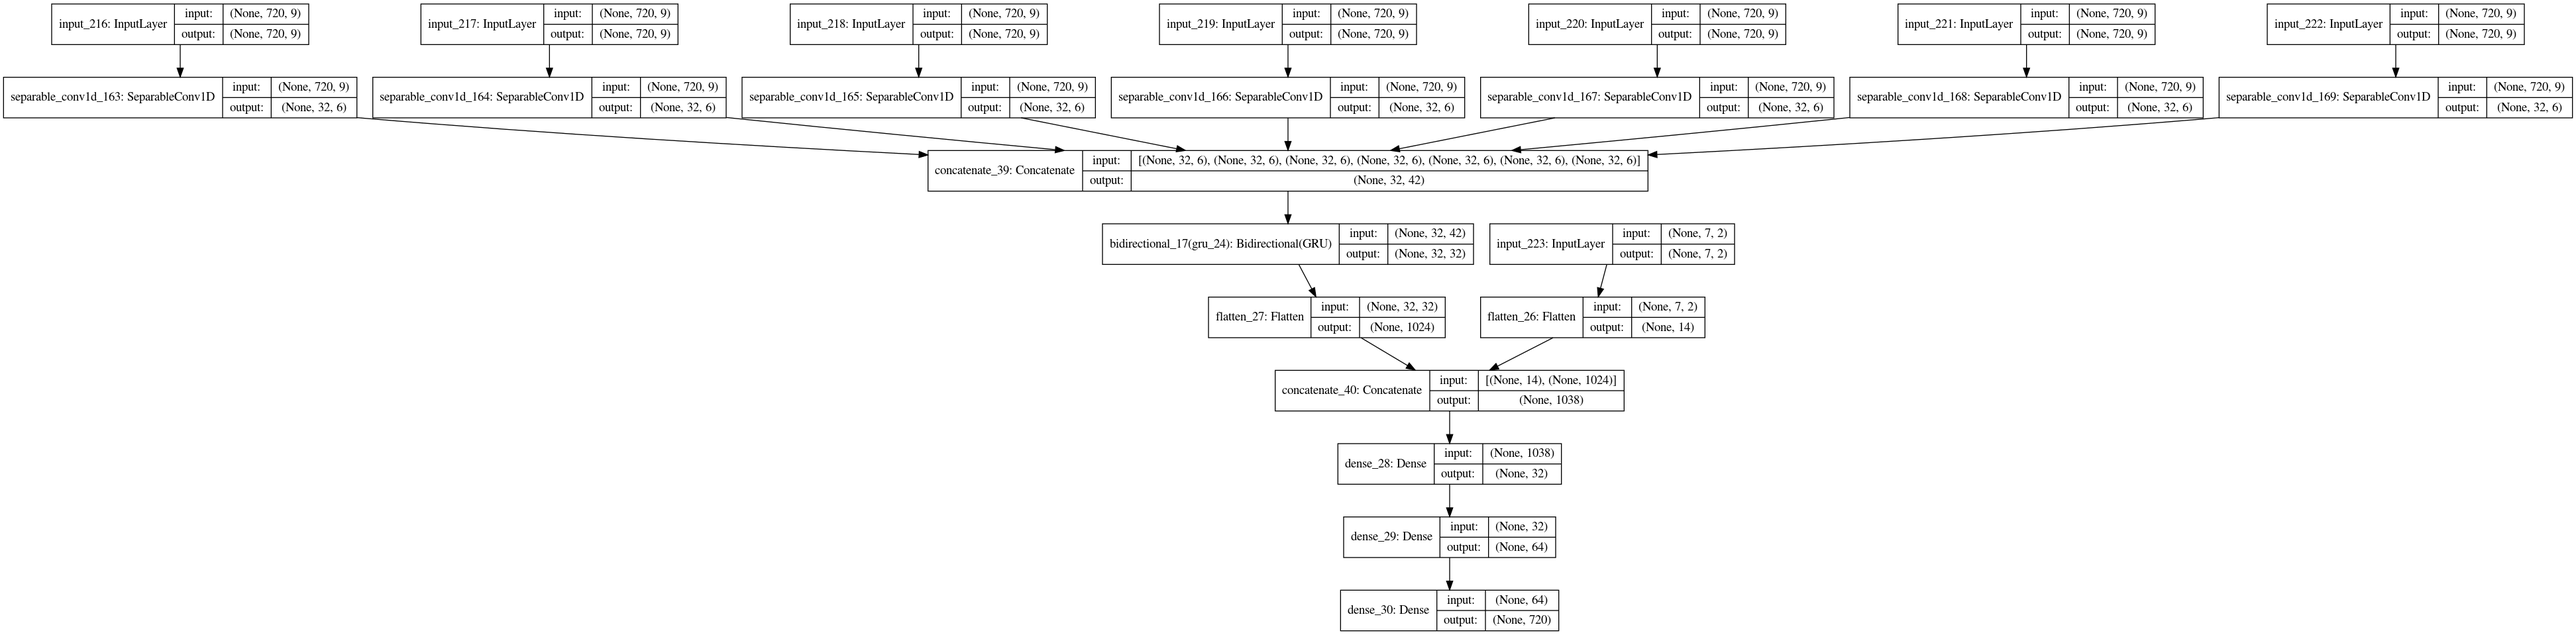
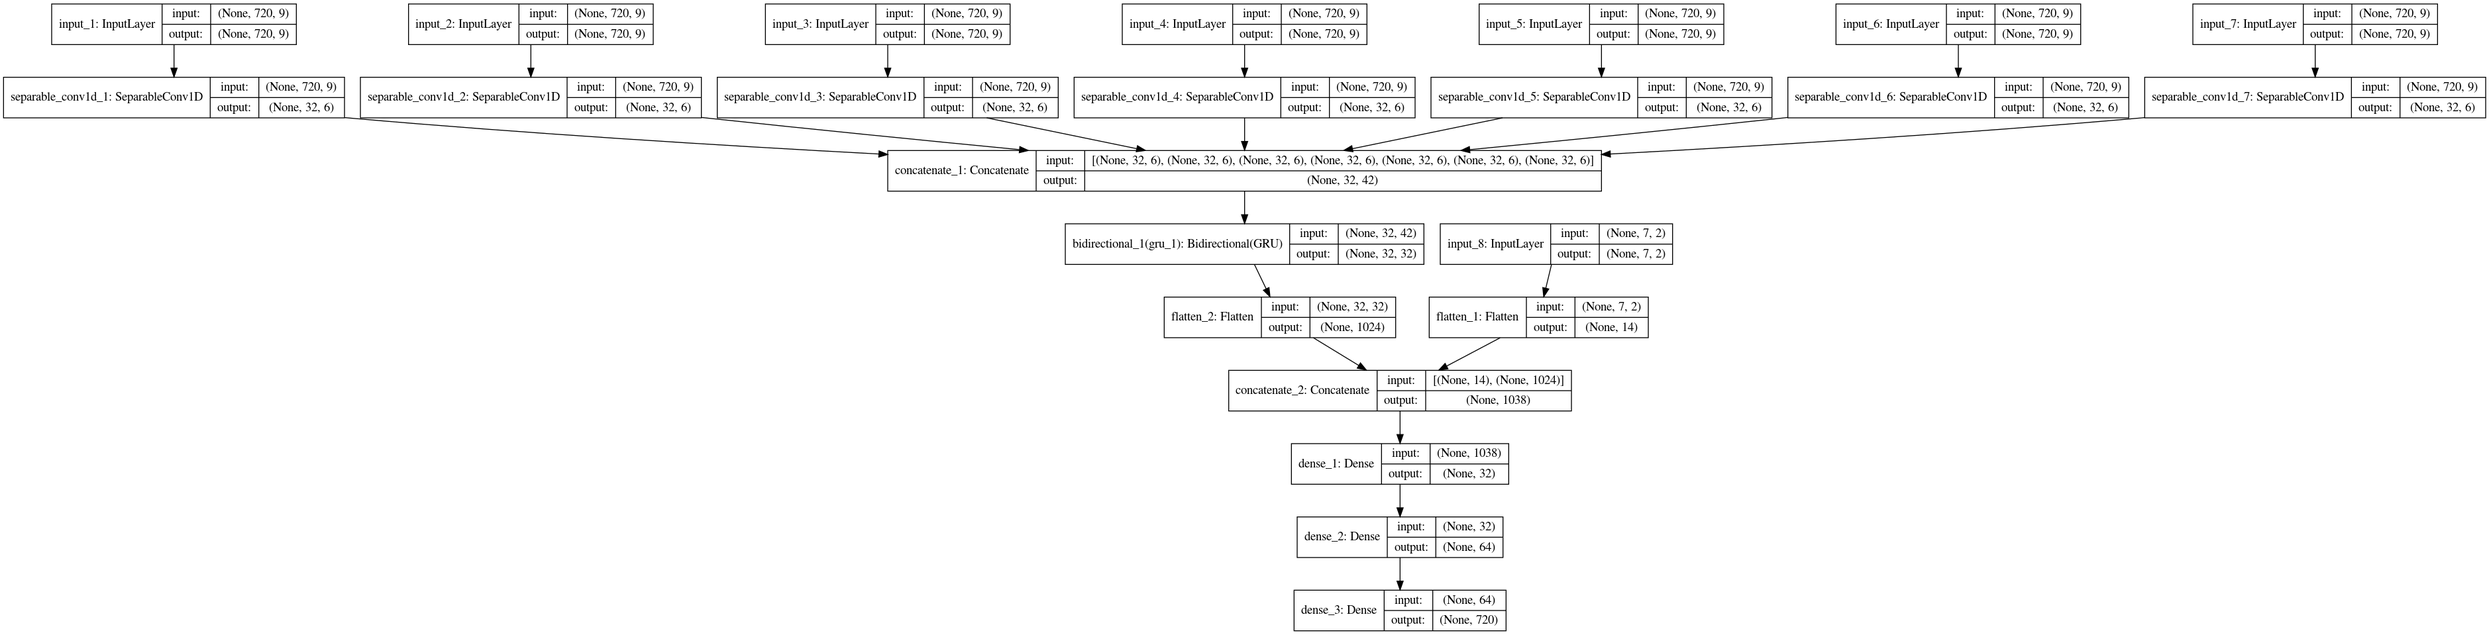
Datastream is now working. Model diagram is produced. Weather data link is updated.

diff --git a/DataAcquisition/dataStream.py b/DataAcquisition/dataStream.py
@@ -13,6 +13,7 @@ from DataAcquisition.ClassSchedule.scripts.classSchedule import classSchedule
 from DataAcquisition.Load.scripts.chillerLoad import chillerLoad
 import numpy as np
 import time
+import pandas as pd
 
 
 #TODO: Get past load data
@@ -59,28 +60,41 @@ class dataStream():
         return np.stack([self.getDaily(date - datetime.timedelta(days=x)) for x in range(7)])
      
     def getMinutelyStream(self, date = datetime.date.today(), offsetDay = 0):
-        return self.getMinutely(date - datetime.timedelta(days=x))
+        return self.getMinutely(date - datetime.timedelta(days=offsetDay))
+
+    def batches(self, iterable, batch_size):
+        for i in range(0, len(iterable), batch_size):
+            yield iterable[i:i + batch_size]
 
     
     def generate(self, dateSet, batch_size = 10):
-        [ for date in dateSet]
-        for date in dateSet:
-            
-            x = [self.getDailyStream(date),self.getMinutelyStream(date)]+self.getMinutelyStream(date, pastWeek=True)
-            y = self.cl.getData(date).iloc[:,0].values
-            yield (x,y)
+        #partition the data into subsets
+        while True:
+            for dateSubSet in self.batches(dateSet,batch_size):
+                #Gather the minutely data by batch and then by relative day.
+                print(dateSubSet)
+                minutely = [np.stack([self.getMinutelyStream(date) for date in dateSubSet]) for offset in range(7)]
+                #Gather stack of daily data
+                daily = [np.stack([self.getDailyStream(date) for date in dateSubSet])]
+                x = daily+minutely
+                y = np.stack([self.cl.getData(date).iloc[:,0].values for date in dateSubSet])
+                yield (x,y)
            
 
 if __name__ == '__main__':
     now = time.time()
-    testDate = datetime.date(2019,6,2)
+    #testDate = datetime.date(2019,6,2)
     #dd = dayData()
     #minutelyData = dd.getMinutely(testDate)
     #dailyData = dd.getDaily(testDate)
     #minutelyDataSet, dailyDataSet = setData().get([testDate- datetime.timedelta(days=x) for x in range(10)])
     ds = dataStream()
     #dailyStream = ds.getDailyStream(testDate)
-    #minutelyStream = ds.getMinutelyStream(testDate)
+    #minutelyStream = ds.getMinutelyStream(testDate,2)
     #minutelyPastStream = ds.getMinutelyStream(testDate, pastWeek=True)
-    test = [i for i in ds.generate([datetime.date(2019,6,2),datetime.date(2019,7,2),datetime.date(2019,8,2)])]
+    trainDates = pd.date_range(datetime.date(2019,2,19),datetime.date(2019,3,30))
+    testDates = pd.date_range(datetime.date(2019,12,7),datetime.date(2020,2,12))
+    #testStream = [i for i in ds.generate([datetime.date(2019,6,2),datetime.date(2019,7,2),datetime.date(2019,8,2)])]
+    trainStream = [i for i in ds.generate(trainDates)]
+    testStream = [i for i in ds.generate(testDates)]
     print(f"Running time: {time.time()-now}")

diff --git a/LoadPrediction/Scripts/model.py b/LoadPrediction/Scripts/model.py
@@ -26,18 +26,20 @@ import datetime
 from DataAcquisition.dataStream import dataStream
 import pandas as pd
 import keras.backend as back
+import math
 
 ##Data Preprocessing 
 #Seperate the training and testing days
 #In order to prevent data leakage, training load should not come be mixed with testing (even for the past week data streams)
-testDates = pd.date_range(datetime.date(2019,2,19),datetime.date(2019,3,30))
-trainDates = pd.date_range(datetime.date(2019,12,7),datetime.date(2020,2,12))
+trainDates = pd.date_range(datetime.date(2019,2,19),datetime.date(2019,3,30))
+testDates = pd.date_range(datetime.date(2019,12,7),datetime.date(2020,2,12))
 
 ##Pertinent Variables
 #Date of interest
 day = datetime.date(2020,3,1)
 minutelyFeatures = 9
 dailyFeatures = 2
+batch_size = 10
 
 ##Initialize the neural network
 #Predictions/known information for the current day and past week 
@@ -75,5 +77,6 @@ keras.utils.plot_model(model, to_file="modelNoLabels.png")
 
 model.compile(loss='mean_squared_error', optimizer = "adagrad")
 
-model.fit_generator(dataStream().generate(testDates))
+model.fit_generator(dataStream().generate(trainDates, batch_size=batch_size),steps_per_epoch=math.floor(len(trainDates)/batch_size), epochs= 25, 
+                    validation_data =  dataStream().generate(testDates, batch_size=batch_size), validation_steps= math.floor(len(trainDates)/batch_size))
 

diff --git a/DataAcquisition/Load/scripts/chillerLoad.py b/DataAcquisition/Load/scripts/chillerLoad.py
@@ -19,7 +19,11 @@ class chillerLoad():
     def getData(self, date):
         endTime = date + datetime.timedelta(days = 1)
         out = self.data[date:endTime]
-        out = out.drop(endTime)
+        #Eliminate midnight if it is available
+        try:
+            out = out.drop(endTime)
+        except Exception:
+            pass
         return out
         
 if __name__ == '__main__':
